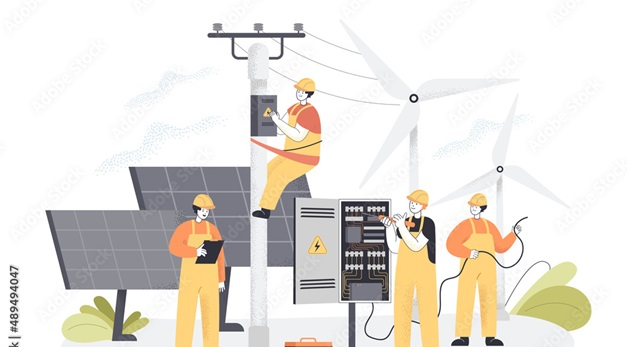
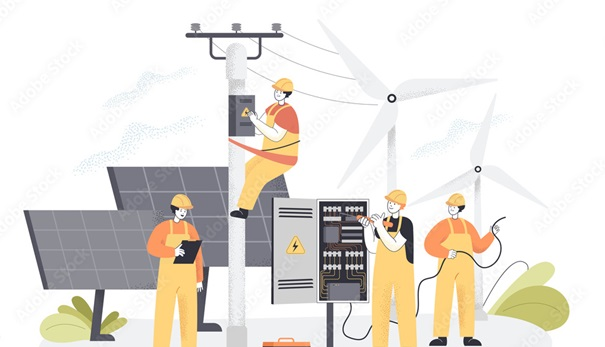
design changes

diff --git a/templates/job_portal/index.html b/templates/job_portal/index.html
@@ -56,8 +56,8 @@
 <!-- Carousel End -->
 
 <div id="about" class="container-xxl py-5">
-    <div class="container position-relative" style="height: 70vh; overflow: hidden;">
-        <img class="img-fluid" src="{% static 'job_portal/img/cover4.jpg' %}" alt="" style="width:100vw; height:100vw; object-fit: cover;">
+    <div class="container-fluid position-relative" style="height: 70vh; overflow: hidden;">
+        <img class="img-fluid" src="{% static 'job_portal/img/cover4.jpg' %}" alt="" style="width: 100%; height: 100%; object-fit: cover;">
         <div class="position-absolute top-0 start-0 w-100 h-100 d-flex align-items-center" style="background: rgba(43, 57, 64, .5);">
             <div class="container">
                 <div class="row justify-content-start">
@@ -71,6 +71,7 @@
         </div>
     </div>
 </div>
+
 
 
 <!-- HRMS End -->